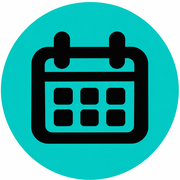
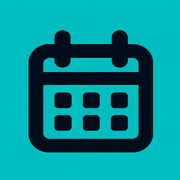
checkpoint before testing_agent_full_stack
Emergent-Commit-Key: 754e5198aa621bdb040081c566ea6dafb3615017bdb316507151d849295102f4

diff --git a/frontend/public/index.html b/frontend/public/index.html
@@ -17,11 +17,12 @@
         <meta property="og:image" content="https://crmevent.it/logo-crmevent.png" />
         <meta name="twitter:card" content="summary_large_image" />
         <link rel="manifest" href="%PUBLIC_URL%/manifest.webmanifest" />
-        <link rel="icon" type="image/png" sizes="192x192" href="%PUBLIC_URL%/favicon-192.png?v=5" />
-        <link rel="icon" href="%PUBLIC_URL%/favicon.ico?v=5" sizes="any" />
-        <link rel="icon" type="image/png" sizes="32x32" href="%PUBLIC_URL%/favicon-32.png?v=5" />
-        <link rel="icon" type="image/png" sizes="16x16" href="%PUBLIC_URL%/favicon-16.png?v=5" />
-        <link rel="apple-touch-icon" href="%PUBLIC_URL%/apple-touch-icon.png?v=5" />
+        <link rel="icon" href="%PUBLIC_URL%/favicon.ico?v=6" sizes="any" />
+        <link rel="icon" type="image/png" sizes="16x16" href="%PUBLIC_URL%/favicon-16.png?v=6" />
+        <link rel="icon" type="image/png" sizes="32x32" href="%PUBLIC_URL%/favicon-32.png?v=6" />
+        <link rel="icon" type="image/png" sizes="48x48" href="%PUBLIC_URL%/favicon-48.png?v=6" />
+        <link rel="icon" type="image/png" sizes="192x192" href="%PUBLIC_URL%/favicon-192.png?v=6" />
+        <link rel="apple-touch-icon" sizes="180x180" href="%PUBLIC_URL%/apple-touch-icon.png?v=6" />
         <link rel="preconnect" href="https://fonts.googleapis.com" />
         <link rel="preconnect" href="https://fonts.gstatic.com" crossorigin />
         <link href="https://fonts.googleapis.com/css2?family=Inter:wght@600&display=swap" rel="stylesheet" />
